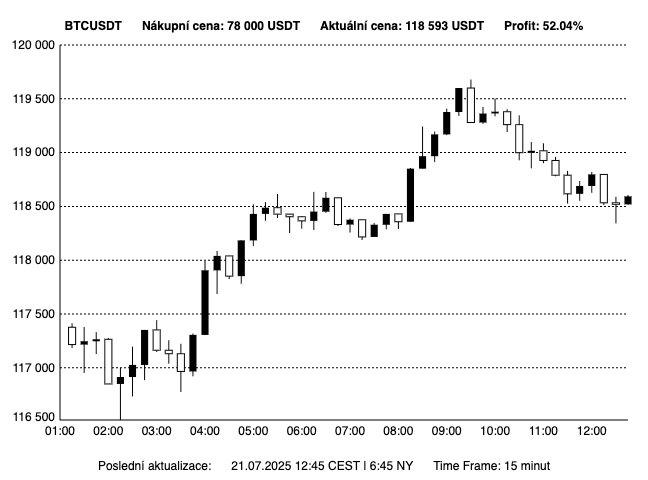
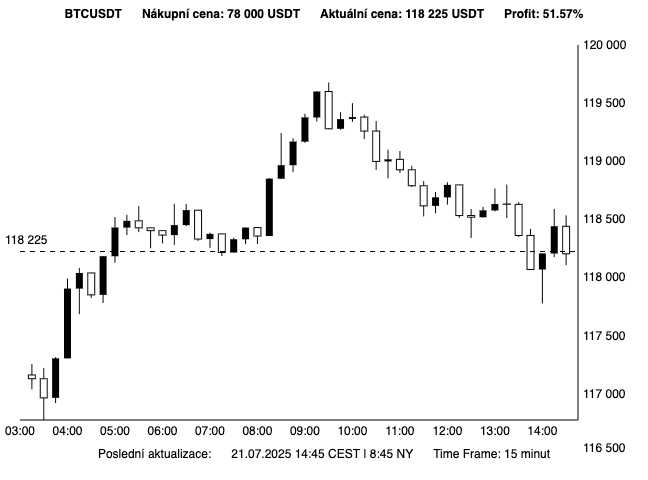
První verze grafu a renderu

diff --git a/chart.html b/chart.html
@@ -33,8 +33,8 @@
       ctx.clearRect(0, 0, canvas.width, canvas.height);
 
       // Přizpůsobené paddingy pro nové rozložení textu
-      const paddingLeft = 60;
-      const paddingRight = 20;
+      const paddingLeft = 20; 
+      const paddingRight = 70; 
       const paddingTop = 45; 
       const paddingBottom = 60; 
 
@@ -47,11 +47,7 @@
       const maxTime = Math.max(...times);
       const prices = candles.flatMap(c => [c.l, c.h]);
       const minPrice = Math.floor(Math.min(...prices) / 500) * 500;
-      // Zajistíme, že minPrice je vždy nejnižší cena z dat, a ne nulová nebo nižší,
-      // pokud se rozsah grafu přiblíží nule
       const adjustedMinPrice = Math.max(minPrice, Math.min(...prices)); 
-
-
       const maxPrice = Math.ceil(Math.max(...prices) / 500) * 500;
 
       const scaleX = w / (maxTime - minTime);
@@ -59,39 +55,29 @@
 
       ctx.strokeStyle = 'black';
       ctx.fillStyle = 'black';
-      ctx.textAlign = 'right';
-      ctx.textBaseline = 'middle';
+      // ctx.textAlign a ctx.textBaseline budou nastaveny specificky pro každou část
 
-      // Y osa (plná vertikální čára)
+      // Y osa (plná vertikální čára) na PRAVÉ STRANĚ
+      const axisY_XPosition = paddingLeft + w; 
       ctx.beginPath();
-      ctx.moveTo(paddingLeft, paddingTop);
-      ctx.lineTo(paddingLeft, paddingTop + h);
+      ctx.moveTo(axisY_XPosition, paddingTop);
+      ctx.lineTo(axisY_XPosition, paddingTop + h);
       ctx.stroke();
 
-      // Horizontální čárkované linie a Y osa (popisky cen)
-      ctx.setLineDash([2, 2]); 
-      ctx.font = '12px Roboto, sans-serif'; // Ještě více zvětšené písmo pro Y osu
+      // Y osa (popisky cen) na PRAVÉ STRANĚ od osy
+      ctx.font = '12px Roboto, sans-serif'; 
+      ctx.textAlign = 'left'; 
+      ctx.textBaseline = 'middle'; 
+
       for (let p = minPrice; p <= maxPrice; p += 500) { 
         const y = paddingTop + h - (p - adjustedMinPrice) * scaleY; 
         
-        // Posunutí textu ceny, aby nebyl pod osou
-        // Měníme base line pro nejnižší cenu, aby se zobrazovala nad linkou osy
-        if (p === minPrice) { // Pro nejnižší cenu na ose
+        if (p === minPrice) { 
           ctx.textBaseline = 'bottom'; 
-          ctx.fillText(p.toLocaleString(), paddingLeft - 5, y + 2); 
+          ctx.fillText(p.toLocaleString(), axisY_XPosition + 5, y + 2); 
           ctx.textBaseline = 'middle'; 
         } else {
-          ctx.fillText(p.toLocaleString(), paddingLeft - 5, y); 
-        }
-        
-        // Vykreslit čárkovanou čáru POUZE pokud NENÍ na spodní hranici grafu
-        // A pokud není cena pod viditelným rozsahem osy (adjustedMinPrice)
-        // Toto zajišťuje, že se spodní čárkovaná čára na ose X nevykreslí
-        if (p !== minPrice) { // Upraveno, aby se spodní čárkovaná čára nikdy nevykreslila
-          ctx.beginPath();
-          ctx.moveTo(paddingLeft, y);
-          ctx.lineTo(paddingLeft + w, y); 
-          ctx.stroke();
+          ctx.fillText(p.toLocaleString(), axisY_XPosition + 5, y); 
         }
       }
       ctx.setLineDash([]); 
@@ -111,7 +97,7 @@
         const yHigh = paddingTop + h - (c.h - adjustedMinPrice) * scaleY; 
         const yLow = paddingTop + h - (c.l - adjustedMinPrice) * scaleY;   
 
-        if (x - barWidth / 2 < paddingLeft) return;
+        if (x - barWidth / 2 < paddingLeft || x + barWidth / 2 > paddingLeft + w) return; 
 
         ctx.strokeStyle = 'black'; 
         ctx.beginPath();
@@ -134,7 +120,7 @@
       ctx.textAlign = 'center';
       ctx.textBaseline = 'top';
       ctx.fillStyle = 'black';
-      ctx.font = '12px Roboto, sans-serif'; // Ještě více zvětšené písmo pro X osu (stejné jako Y)
+      ctx.font = '12px Roboto, sans-serif'; 
 
       const firstHourTimestamp = Math.ceil(minTime / (1000 * 60 * 60)) * (1000 * 60 * 60);
 
@@ -150,9 +136,32 @@
         ctx.fillText(label, x, paddingTop + h + 5);
       }
 
+      // --- Nová vodorovná čárkovaná linka na aktuální ceně ---
+      const currentPrice = candles[candles.length - 1].c; 
+      const yCurrentPrice = paddingTop + h - (currentPrice - adjustedMinPrice) * scaleY;
+
+      ctx.setLineDash([5, 5]); 
+      ctx.strokeStyle = 'black';
+      ctx.beginPath();
+      ctx.moveTo(paddingLeft, yCurrentPrice);
+      ctx.lineTo(paddingLeft + w, yCurrentPrice);
+      ctx.stroke();
+      ctx.setLineDash([]); 
+
+      // --- Zobrazení aktuální ceny vlevo u čárkované linky (UPRAVENO) ---
+      const currentPriceToDisplay = Math.round(currentPrice); // Zaokrouhlení na celé číslo
+      
+      ctx.fillStyle = 'black';
+      ctx.font = '12px Roboto, sans-serif'; // Normální (netučné) písmo
+      ctx.textAlign = 'left'; 
+      ctx.textBaseline = 'bottom'; // Nastavíme na 'bottom', aby se text vykreslil NAD Y-souřadnicí
+
+      // X pozice je stále 5px od levého okraje, ale Y pozice je o 5px výše (nad linkou)
+      ctx.fillText(currentPriceToDisplay.toLocaleString(), 5, yCurrentPrice - 5); 
+
       // --- Horní řádek textu: Ticker, Nákupní cena, Aktuální cena, Profit ---
       const averageBuyPrice = 78000;
-      const currentPrice = candles[candles.length - 1].c;
+      // const currentPrice = candles[candles.length - 1].c; // Už definováno výše
 
       let profitPercentage = 0;
       if (averageBuyPrice > 0) {

diff --git a/render.js b/render.js
@@ -1,17 +1,10 @@
 const puppeteer = require('puppeteer');
-const path = require('path');
 
-async function generateChartImage() {
-  const browser = await puppeteer.launch({
-    headless: true, // Spustí prohlížeč v pozadí
-    args: ['--no-sandbox', '--disable-setuid-sandbox'] // Důležité pro GitHub Actions
-  });
+(async () => {
+  const browser = await puppeteer.launch({ headless: "new" });
   const page = await browser.newPage();
-  await page.setViewport({ width: 648, height: 480, deviceScaleFactor: 2 }); // Nastavte rozlišení a DPI
-  await page.goto(`file://${path.resolve(__dirname, 'chart.html')}`, { waitUntil: 'networkidle0' });
-  await page.screenshot({ path: 'chart.png' });
+  await page.setViewport({ width: 648, height: 480 });
+  await page.goto(`file://${__dirname}/chart.html`, { waitUntil: 'networkidle0' });
+  await page.screenshot({ path: `${__dirname}/btc-chart.png` });
   await browser.close();
-  console.log('Graf byl vygenerován jako chart.png');
-}
-
-generateChartImage();
+})();
